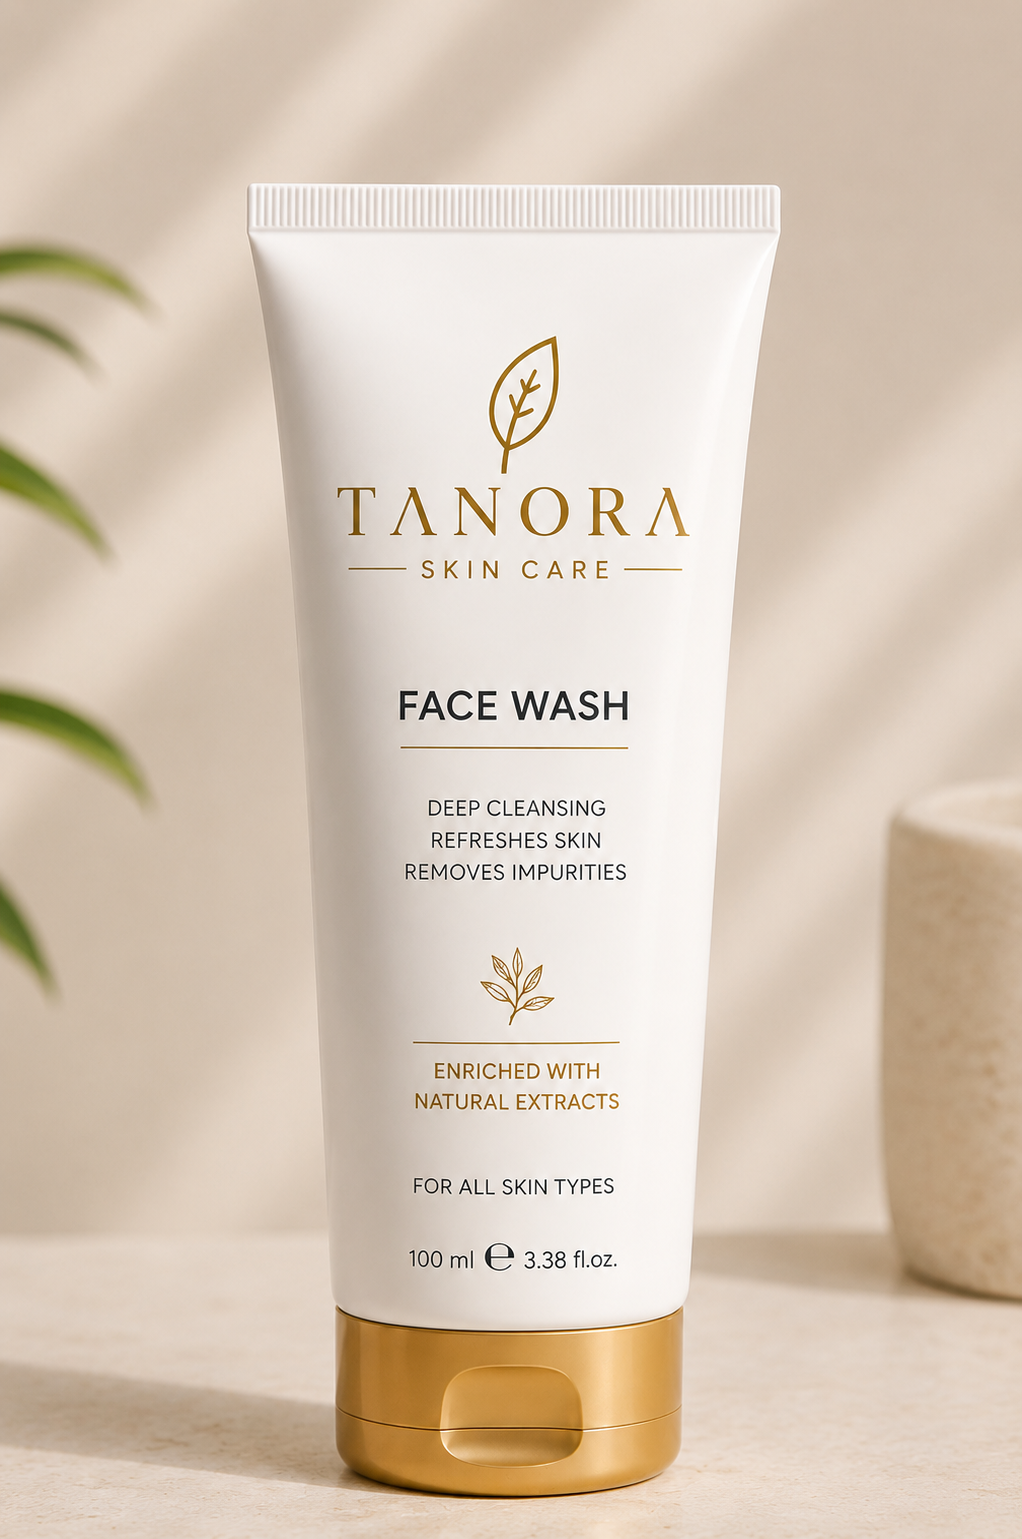
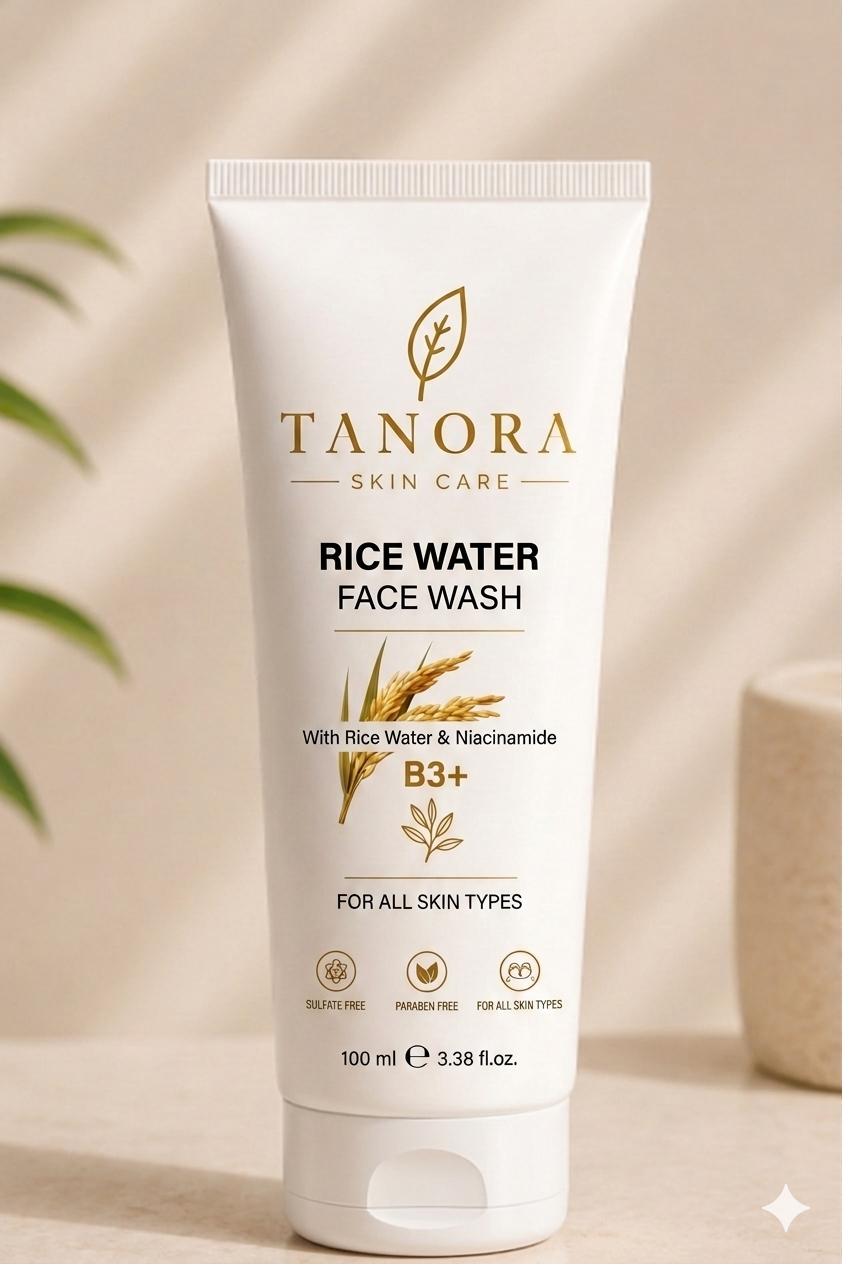
added sunscreen html and image

diff --git a/sunscreen.html b/sunscreen.html
@@ -1,0 +1,260 @@
+<!DOCTYPE html>
+<html lang="en">
+<head>
+  <meta charset="UTF-8" />
+  <meta name="viewport" content="width=device-width, initial-scale=1.0" />
+  <title>Sunscreen • Tanora</title>
+  <meta name="description" content="Tanora Broad Spectrum Sunscreen with SPF 50+. Discover mineral, chemical, tinted, gel, body and kids sunscreen types for daily sun protection." />
+  <link rel="preconnect" href="https://fonts.googleapis.com" />
+  <link rel="icon" type="image/x-icon" href="images/favicon.ico">
+  <link rel="preconnect" href="https://fonts.gstatic.com" crossorigin />
+  <link href="https://fonts.googleapis.com/css2?family=Cormorant+Garamond:ital,wght@0,400;1,400;1,600&family=Inter:wght@300;400;500&display=swap" rel="stylesheet" />
+  <link rel="stylesheet" href="https://cdnjs.cloudflare.com/ajax/libs/font-awesome/6.4.0/css/all.min.css" />
+  <link rel="stylesheet" href="css/style.css" />
+</head>
+<body>
+
+<!-- NAV -->
+<header class="nav">
+  <div class="container nav-inner">
+    <a href="index.html" class="logo"><img src="images/tanora-logo.png" alt="Tanora" /></a>
+    <nav class="nav-links">
+      <a href="index.html#products">SHOP</a>
+      <a href="combos.html">COMBOS</a>
+      <a href="index.html#benefits">BENEFITS</a>
+      <a href="index.html#reviews">REVIEWS</a>
+    </nav>
+  </div>
+</header>
+
+<section class="product-hero">
+  <div class="container">
+    <div class="breadcrumb"><a href="index.html">Home</a> / <a href="index.html#products">Shop</a> / Sunscreen</div>
+
+    <div class="product-grid">
+      <div class="gallery">
+        <div class="gallery-main" onclick="openLightbox(this.querySelector('img'))">
+          <img id="main-img" src="images/sunscreen.png" alt="Tanora Sunscreen" />
+        </div>
+        <div class="gallery-thumbs">
+          <img src="images/sunscreen.png" class="active" onclick="switchImage(this, 'images/sunscreen.png')" alt="Sunscreen bottle" />
+          <img src="images/sunscreen.png" onclick="switchImage(this, 'images/sunscreen.png')" alt="Sunscreen texture" />
+          <img src="images/sunscreen.png" onclick="switchImage(this, 'images/sunscreen.png')" alt="Sunscreen application" />
+        </div>
+      </div>
+
+      <div class="product-info">
+        <span class="kicker gold">SKIN CARE</span>
+        <h1>Broad Spectrum Sunscreen</h1>
+        <div class="price">₹499 <span>₹599</span></div>
+        <p class="product-desc">Non-greasy SPF 50+ sunscreen that shields skin from UVA/UVB damage while delivering hydration and a lightweight matte finish. Ideal for daily wear across all skin types.</p>
+
+        <div class="buy-row">
+          <a href="https://www.amazon.in/s?k=tanora+sunscreen" target="_blank" class="btn btn-amazon">BUY ON AMAZON →</a>
+          <a href="https://www.flipkart.com/search?q=tanora+sunscreen" target="_blank" class="btn btn-flipkart">BUY ON FLIPKART →</a>
+        </div>
+        <p style="font-size:11px;color:var(--muted)">* Purchases via Amazon / Flipkart. No checkout on this site.</p>
+
+        <div class="section-sub">
+          <h3 style="font-size:15px;margin-bottom:12px">KEY INGREDIENTS</h3>
+          <div class="ingredients">
+            <span>Zinc Oxide</span>
+            <span>Niacinamide</span>
+            <span>Hyaluronic Acid</span>
+            <span>Vitamin E</span>
+            <span>Aloe Vera</span>
+            <span>Green Tea</span>
+          </div>
+        </div>
+
+        <div>
+          <h3 style="font-size:15px;margin:20px 0 12px">THE RITUAL</h3>
+          <p class="product-desc" style="font-size:14px">Apply liberally 15 minutes before sun exposure. Reapply every 2-3 hours, especially after sweating or swimming. Use daily for the best protection and a smoother skin finish.</p>
+        </div>
+      </div>
+    </div>
+  </div>
+</section>
+
+<section class="section">
+  <div class="container">
+    <div class="section-head">
+      <p class="kicker">SUNSCREEN GUIDE</p>
+      <h2>All sunscreen types in one place</h2>
+    </div>
+    <div class="grid-3">
+      <article class="card">
+        <div class="card-body">
+          <h3>Mineral / Physical</h3>
+          <p>Gentle broad-spectrum protection using zinc oxide and titanium dioxide. Best for sensitive and acne-prone skin.</p>
+        </div>
+      </article>
+      <article class="card">
+        <div class="card-body">
+          <h3>Chemical / Organic</h3>
+          <p>Lightweight formulas that absorb quickly into skin. Ideal for everyday wear under makeup and in humid climates.</p>
+        </div>
+      </article>
+      <article class="card">
+        <div class="card-body">
+          <h3>Tinted Sunscreen</h3>
+          <p>Builds subtle coverage while protecting against sun damage. Smooths tone and reduces shine in one step.</p>
+        </div>
+      </article>
+      <article class="card">
+        <div class="card-body">
+          <h3>Gel Sunscreen</h3>
+          <p>Cooling, oil-free textures that absorb quickly. Great for combination and oily skin, especially in summer.</p>
+        </div>
+      </article>
+      <article class="card">
+        <div class="card-body">
+          <h3>Body Sunscreen</h3>
+          <p>Thicker, water-resistant formulas built for arms, shoulders and legs. Perfect for outdoor sports and beach days.</p>
+        </div>
+      </article>
+      <article class="card">
+        <div class="card-body">
+          <h3>Kids & Sensitive</h3>
+          <p>Fragrance-free, tear-free protection with gentle filters. Designed for delicate, easily irritated skin.</p>
+        </div>
+      </article>
+    </div>
+  </div>
+</section>
+
+<section class="section" style="margin-top:40px">
+  <div class="container" style="max-width:820px">
+    <h2 style="margin-bottom:24px">Why sunscreen matters</h2>
+    <p class="muted" style="font-size:15px;line-height:1.75">Daily sunscreen prevents premature ageing, dark spots and sun damage. Choose the texture that suits your routine and make it the final step of your morning skincare ritual.</p>
+    <div class="tags" style="margin-top:20px">
+      <span>Broad spectrum UVA/UVB</span><span>Non-comedogenic</span><span>Suitable for daily use</span>
+    </div>
+  </div>
+</section>
+
+<section class="section alt">
+  <div class="container">
+    <div class="section-head">
+      <p class="kicker">4.9/5 · 1,567 REVIEWS</p>
+      <h2>What customers say</h2>
+    </div>
+    <div class="reviews">
+      <div class="review-item">
+        <div class="stars">★★★★★</div>
+        <p>“This sunscreen feels weightless and doesn’t leave a white cast. Perfect for daily use and my makeup sits beautifully on top.”</p>
+        <div class="review-meta"><strong>Ayesha Patel</strong> — Mumbai • Verified Buyer</div>
+      </div>
+      <div class="review-item">
+        <div class="stars">★★★★★</div>
+        <p>“I’ve finally found a tinted sunscreen that works for my skin tone. It keeps oil at bay and protects me throughout the day.”</p>
+        <div class="review-meta"><strong>Rahul Mehta</strong> — Bangalore • Verified Buyer</div>
+      </div>
+      <div class="review-item">
+        <div class="stars">★★★★★</div>
+        <p>“The body sunscreen is my go-to for outdoor runs. Easy to apply, no stickiness, and the water resistant finish lasts.”</p>
+        <div class="review-meta"><strong>Neha Sharma</strong> — Delhi • Verified Buyer</div>
+      </div>
+    </div>
+  </div>
+</section>
+
+<section class="section">
+  <div class="container">
+    <div class="combo-highlight">
+      <h4>COMPLETE YOUR ROUTINE</h4>
+      <p style="color:var(--muted);margin-bottom:12px">Pair your sunscreen with our facewash and moisturizer for smoother, brighter skin every day.</p>
+    </div>
+
+    <h3 style="margin-bottom:16px">Related Products</h3>
+    <div class="related-grid">
+      <a href="facewash.html" class="card" style="text-decoration:none">
+        <div class="card-img" style="height:220px"><img src="images/facewash.png" alt="Facewash" style="max-height:200px"></div>
+        <div class="card-body"><h3 style="font-size:18px">Gentle Facewash</h3><div class="price" style="font-size:14px">₹249</div></div>
+      </a>
+      <a href="index.html" class="card" style="text-decoration:none">
+        <div class="card-img" style="height:220px"><img src="images/product.jpg" alt="Moisturizer ritual" style="max-height:200px"></div>
+        <div class="card-body"><h3 style="font-size:18px">Daily Moisture Ritual</h3><p style="font-size:13px;color:var(--muted)">Complete your sunscreen finish with light hydration.</p></div>
+      </a>
+      <a href="combos.html" class="card" style="text-decoration:none">
+        <div class="card-img" style="height:220px;background:#1a1814;display:flex;align-items:center;justify-content:center"><span style="font-size:42px">🎁</span></div>
+        <div class="card-body"><h3 style="font-size:18px">Explore Value Combos</h3><p style="font-size:13px;color:var(--muted)">Save up to 18%</p></div>
+      </a>
+    </div>
+  </div>
+</section>
+
+<footer class="footer">
+  <div class="container footer-grid">
+    <div class="foot-brand">
+      <img src="images/tanora-logo.png" alt="Tanora" />
+      <p>Nourishing roots. Elevating you. Premium skin and hair care, made for India.</p>
+    </div>
+    <div>
+      <h4>SHOP</h4>
+      <ul>
+        <li><a href="shampoo.html">Shampoo</a></li>
+        <li><a href="conditioner.html">Conditioner</a></li>
+        <li><a href="facewash.html">Facewash</a></li>
+        <li><a href="combos.html">Value Combos</a></li>
+      </ul>
+    </div>
+    <div>
+      <h4>CONTACT</h4>
+      <ul>
+        <li><a href="mailto:[email redacted]">✉ [email redacted]</a></li>
+        <li>📞 [phone redacted]</li>
+      </ul>
+      <div class="social-links" style="margin-top: 15px;">
+        <a href="https://www.instagram.com/caretanora" target="_blank" title="Instagram" style="margin-right: 12px;">
+          <i class="fab fa-instagram" style="font-size: 20px; color: #E4405F;"></i>
+        </a>
+        <a href="https://www.facebook.com/profile.php?id=61589287961963" target="_blank" title="Facebook">
+          <i class="fab fa-facebook" style="font-size: 20px; color: #1877F2;"></i>
+        </a>
+      </div>
+    </div>
+  </div>
+  <div class="container foot-bottom">© 2026 TANORA Care. ALL RIGHTS RESERVED. <a href="privacypolicy.html">Privacy Policy</a></div>
+</footer>
+
+<div id="lightbox" class="lightbox" onclick="closeLightbox(event)">
+  <div class="lightbox-inner" onclick="event.stopImmediatePropagation()">
+    <button class="lightbox-close" onclick="closeLightbox(event)">&times;</button>
+    <img id="lightbox-img" src="" alt="Zoomed product" onclick="toggleZoom(this)" />
+  </div>
+</div>
+
+<script>
+function switchImage(thumb, src) {
+  document.getElementById('main-img').src = src;
+  document.querySelectorAll('.gallery-thumbs img').forEach(i => i.classList.remove('active'));
+  thumb.classList.add('active');
+}
+function openLightbox(imgEl) {
+  const lb = document.getElementById('lightbox');
+  const lbImg = document.getElementById('lightbox-img');
+  lbImg.src = imgEl.src;
+  lbImg.classList.remove('zoomed');
+  lb.classList.add('active');
+}
+function closeLightbox(e) {
+  const lb = document.getElementById('lightbox');
+  if (e.target.id === 'lightbox' || e.target.classList.contains('lightbox-close')) {
+    lb.classList.remove('active');
+    document.getElementById('lightbox-img').classList.remove('zoomed');
+  }
+}
+function toggleZoom(img) {
+  img.classList.toggle('zoomed');
+}
+document.addEventListener('keydown', function(e) {
+  if (e.key === 'Escape') {
+    const lb = document.getElementById('lightbox');
+    lb.classList.remove('active');
+    document.getElementById('lightbox-img').classList.remove('zoomed');
+  }
+});
+</script>
+</body>
+</html>

diff --git a/index.html b/index.html
@@ -6,7 +6,8 @@
 <title>Tanora • Luxury Hair & Skin Care</title>
   <meta name="description" content="Premium luxury personal care by Tanora. Sulfate-free Shampoo, Conditioner & Facewash. Shop our signature collections and bundles." />
 <link rel="preconnect" href="https://fonts.googleapis.com" />
-<link rel="icon" type="image/x-icon" href="images/favicon.ico">
+<!-- <link rel="icon" type="image/png" href="images/favicon.png"> -->
+<!-- <link rel="icon" type="image/svg+xml" href="images/favicon.svg"> -->
 <link rel="preconnect" href="https://fonts.gstatic.com" crossorigin />
 <link href="https://fonts.googleapis.com/css2?family=Cormorant+Garamond:ital,wght@0,400;1,400;1,600&family=Inter:wght@300;400;500&display=swap" rel="stylesheet" />
 <link rel="stylesheet" href="https://cdnjs.cloudflare.com/ajax/libs/font-awesome/6.4.0/css/all.min.css" />
@@ -90,14 +91,14 @@
       </article>
       <!-- Conditioner -->
       <article class="card">
-        <a href="conditioner.html" class="card-img"><img src="images/product.jpg" alt="Nourishing Conditioner" /></a>
+        <a href="sunscreen.html" class="card-img"><img src="images/sunscreen.png" alt="Tanora Sunscreen" /></a>
         <div class="card-body">
-          <p class="kicker">HAIR CARE</p>
-          <h3><a href="conditioner.html">Nourishing Conditioner</a></h3>
-          <p>Lightweight daily conditioner with argan &amp; keratin. Detangles, repairs and leaves hair silky.</p>
+          <p class="kicker">SKIN CARE</p>
+          <h3><a href="sunscreen.html">Broad Spectrum Sunscreen</a></h3>
+          <p>Broad-spectrum sunscreen with SPF 50+ for daily protection. Lightweight, matte, and suited for all skin types.</p>
           <div class="price" style="font-size:15px;margin:12px 0 16px;color:#c8a96a"></div>
           <div style="display:flex;gap:6px;flex-wrap:wrap">
-            <a href="conditioner.html" class="btn btn-outline" style="padding:8px 12px;font-size:10px">VIEW DETAILS</a>
+            <a href="sunscreen.html" class="btn btn-outline" style="padding:8px 12px;font-size:10px">VIEW DETAILS</a>
             <!-- <a href="https://www.flipkart.com/tanora-anti-hair-fall-shampoo-200ml/p/itm9047a92211209?pid=SMPHNQUTTURGFGDC" target="_blank" class="btn btn-amazon" style="padding:8px 14px;font-size:10px">AMAZON</a>
             <a href="https://www.flipkart.com/tanora-anti-hair-fall-shampoo-200ml/p/itm9047a92211209?pid=SMPHNQUTTURGFGDC" target="_blank" class="btn btn-flipkart" style="padding:8px 14px;font-size:10px">FLIPKART</a> -->
           </div>

diff --git a/combos.html b/combos.html
@@ -6,7 +6,8 @@
   <title>Combos &amp; Bundles • Tanora</title>
   <meta name="description" content="Save more with Tanora curated value bundles. Complete Care Set, Hair Revival Duo and Daily Glow Kit with direct Amazon & Flipkart purchase links." />
   <link rel="preconnect" href="https://fonts.googleapis.com" />
-  <link rel="icon" type="image/x-icon" href="images/favicon.ico">
+  <!-- <link rel="icon" type="image/x-icon" href="images/favicon.ico"> -->
+  <link rel="icon" type="image/jpeg" href="images/favicon.jpeg">
   <link rel="preconnect" href="https://fonts.gstatic.com" crossorigin />
   <link href="https://fonts.googleapis.com/css2?family=Cormorant+Garamond:ital,wght@0,400;1,400;1,600&family=Inter:wght@300;400;500&display=swap" rel="stylesheet" />
   <link rel="stylesheet" href="https://cdnjs.cloudflare.com/ajax/libs/font-awesome/6.4.0/css/all.min.css" />